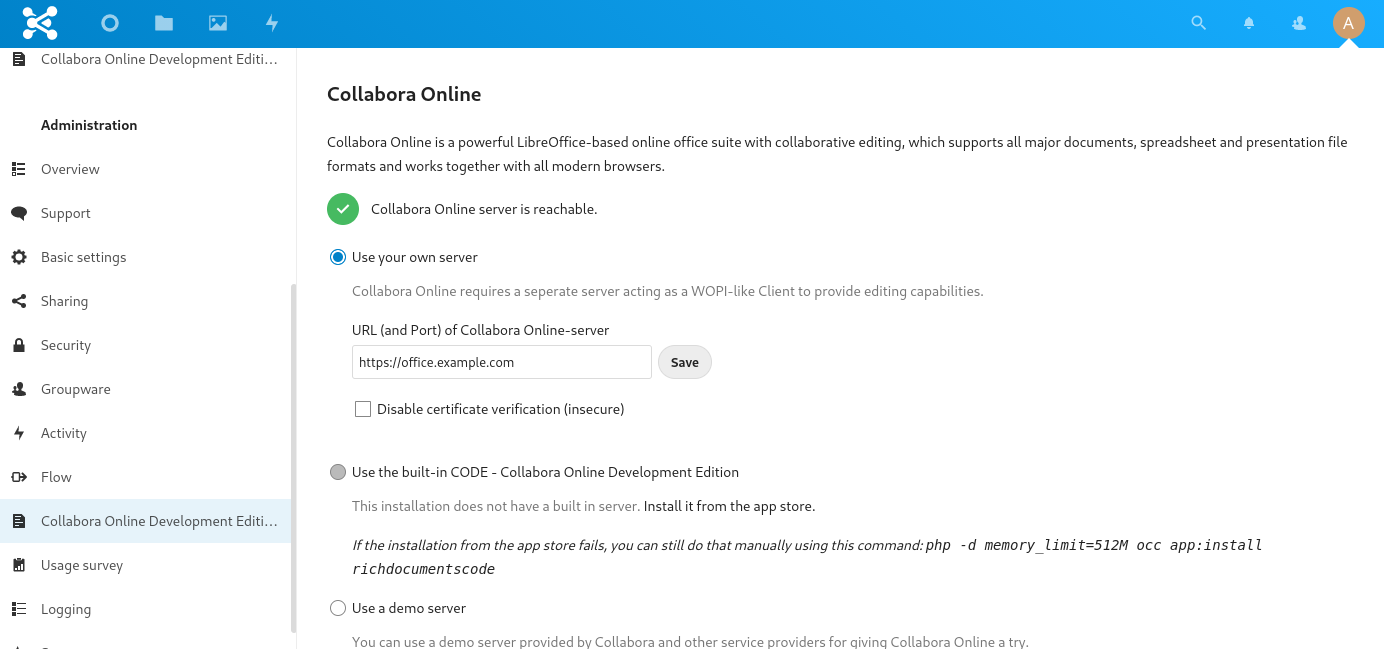
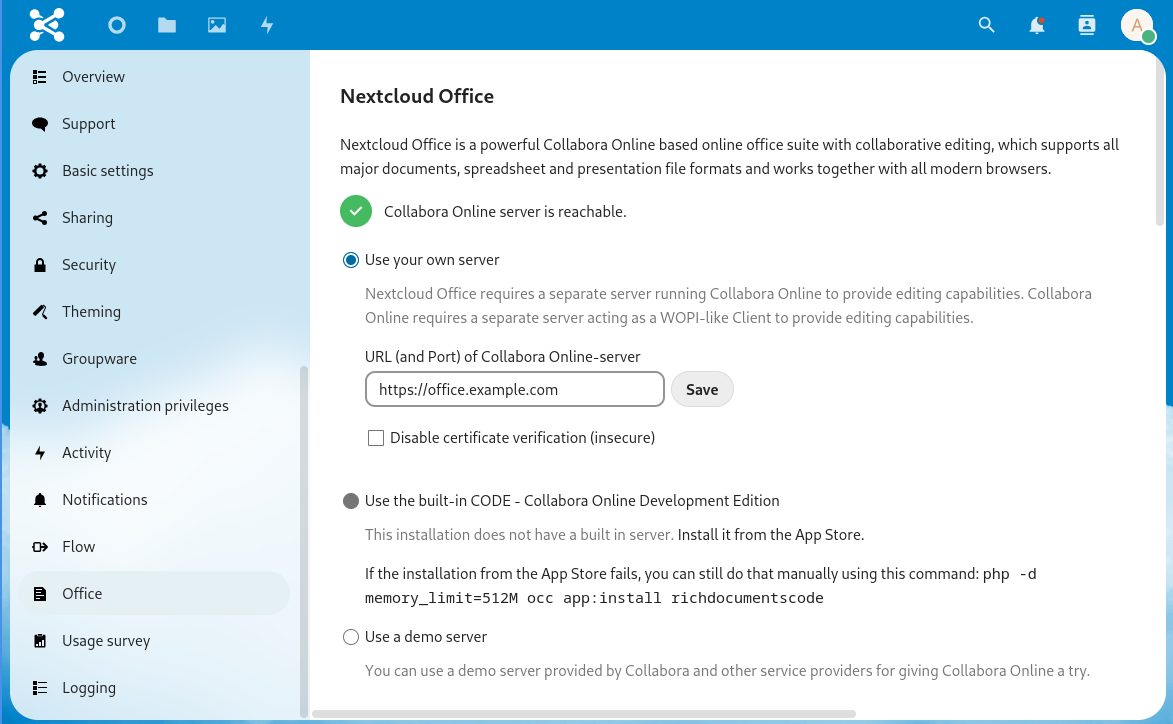
Updating Tutorial for Nextcloud Office

diff --git a/tutorials/install-and-configure-nextcloud-collabora-online/01.de.md b/tutorials/install-and-configure-nextcloud-collabora-online/01.de.md
@@ -3,9 +3,9 @@ SPDX-License-Identifier: MIT
 path: "/tutorials/install-and-configure-nextcloud-collabora-online/de"
 slug: "install-and-configure-nextcloud-collabora-online"
 date: "2021-05-06"
-title: "Installation und Konfiguration von Collabora Online für Nextcloud"
-short_description: "Dieses Tutorial beschreibt die Installation eines externen Collabora Online Server mit Let's Encrypt und die Einrichtung in einer Nextcloud."
-tags: ["Ubuntu", "Nextcloud", "Collabora"]
+title: "Installation und Konfiguration von Nextcloud Office"
+short_description: "Dieses Tutorial beschreibt die Installation von Nextcloud Office mit einem externen Collabora Online Server und Let's Encrypt."
+tags: ["Ubuntu", "Nextcloud", "Collabora", "Office"]
 author: "Alexander Pücker"
 author_link: "https://github.com/Anthrazz"
 author_img: "https://avatars.githubusercontent.com/u/25553648"
@@ -18,7 +18,7 @@ cta: "storageshare"
 
 ## Einleitung
 
-Collabora kann genutzt werden um Office Dokumente direkt in der Nextcloud Weboberfläche anzuzeigen und zu bearbeiten.
+Nextcloud Office baut auf Collabora Online auf und kann genutzt werden um Office Dokumente direkt in der Nextcloud Weboberfläche anzuzeigen und zu bearbeiten.
 
 Dieses Tutorial beschreibt die Einrichtung eines externen Collabora Online Server und die Einrichtung in einer Nextcloud. Der Collabora Online Server wird mit SSL Zertifikate von Let's Encrypt konfiguriert um eine vertrauenswürdige SSL Verbindung bereitzustellen.
 
@@ -26,7 +26,7 @@ Dieses Tutorial beschreibt die Einrichtung eines externen Collabora Online Serve
 
 Du benötigst die folgenden Dinge
 
-* ein Server mit Ubuntu 20.04 (andere Ubuntu Versionen sollten aber auch funktionieren)
+* ein Server mit Ubuntu 22.04 (andere Ubuntu Versionen sollten aber auch funktionieren)
 * eigene Domain wie z.b. `example.com`
 * eigene Subdomain die auf deinen geplanten Collabora Server zeigt (z.b. auf `office.example.com`)
 * eine Nextcloud (in diesem Tutorial `nextcloud.example.com`)
@@ -92,11 +92,10 @@ Nun können die SSL Zertifikate erstellt werden. Passe dabei die Domain auf die 
 ```shell
 certbot certonly --nginx -d office.example.com
 [...]
-IMPORTANT NOTES:
- - Congratulations! Your certificate and chain have been saved at:
-   /etc/letsencrypt/live/office.example.com/fullchain.pem
-   Your key file has been saved at:
-   /etc/letsencrypt/live/office.example.com/privkey.pem
+Successfully received certificate.
+Certificate is saved at: /etc/letsencrypt/live/office.example.com/fullchain.pem
+Key is saved at:         /etc/letsencrypt/live/office.example.com/privkey.pem
+[...]
 ```
 
 Hinweiß: Merke dir kurz die Pfade der SSL Zertifikate da diese im nächsten Schritt für die Nginx Konfiguration benötigt werden.
@@ -114,26 +113,26 @@ server {
     ssl_certificate_key /etc/letsencrypt/live/office.example.com/privkey.pem;
 
     # static files
-    location ^~ /loleaflet {
-        proxy_pass https://localhost:9980;
+    location ^~ /browser {
+        proxy_pass https://127.0.0.1:9980;
         proxy_set_header Host $http_host;
     }
 
     # WOPI discovery URL
     location ^~ /hosting/discovery {
-        proxy_pass https://localhost:9980;
+        proxy_pass https://127.0.0.1:9980;
         proxy_set_header Host $http_host;
     }
 
     # Capabilities
     location ^~ /hosting/capabilities {
-        proxy_pass https://localhost:9980;
+        proxy_pass https://127.0.0.1:9980;
         proxy_set_header Host $http_host;
     }
 
     # main websocket
-    location ~ ^/lool/(.*)/ws$ {
-        proxy_pass https://localhost:9980;
+    location ~ ^/cool/(.*)/ws$ {
+        proxy_pass https://127.0.0.1:9980;
         proxy_set_header Upgrade $http_upgrade;
         proxy_set_header Connection "Upgrade";
         proxy_set_header Host $http_host;
@@ -141,14 +140,14 @@ server {
     }
 
     # download, presentation and image upload
-    location ~ ^/lool {
-        proxy_pass https://localhost:9980;
+    location ~ ^/(c|l)ool {
+        proxy_pass https://127.0.0.1:9980;
         proxy_set_header Host $http_host;
     }
 
     # Admin Console websocket
-    location ^~ /lool/adminws {
-        proxy_pass https://localhost:9980;
+    location ^~ /cool/adminws {
+        proxy_pass https://127.0.0.1:9980;
         proxy_set_header Upgrade $http_upgrade;
         proxy_set_header Connection "Upgrade";
         proxy_set_header Host $http_host;
@@ -163,19 +162,21 @@ Nun muss der Nginx neugestartet werden um die neue Konfiguration zu nutzen:
 systemctl restart nginx
 ```
 
-## Schritt 8 - Aktiviere die Collabora Online App in Nextcloud
+## Schritt 8 - Aktiviere die Nextcloud Office App in Nextcloud
 
-Der Collabora Server selbst ist nun fertig eingerichtet und nutzbar. Nun muss nur noch der Collabora Server in der Nextcloud konfiguriert werden.
+Der Collabora Server selbst ist nun fertig eingerichtet und nutzbar. Nun muss nur noch dieser in der Nextcloud konfiguriert werden.
 
-In Nextcloud muss die App `Collabora Online` aktiviert werden. Gehe dafür im Web Interface deiner Nextcloud in den App Store (obere rechte Ecke -> `Apps`) und Suche nach `Collabora Online`. Es muss nur die App `Collabora Online` aktiviert werden und keine andere.
+In Nextcloud muss die App `Nextcloud Office` aktiviert werden. Gehe dafür im Web Interface deiner Nextcloud in den App Store (obere rechte Ecke -> `Apps`) und Suche nach `Nextcloud Office`. Es muss nur die App `Nextcloud Office` aktiviert werden und keine andere.
 
-## Schritt 9 - Collabora Online App konfigurieren
+## Schritt 9 - Nextcloud Office App konfigurieren
 
-Nach der Installation muss der Collabora App noch die Adresse des Collabora Servers mitgeteilt werden. Für dies gehen in die Einstellungen deiner Nextcloud (obere rechte Ecke  -> `Einstellungen`) und wähle im linken Menü `Collabora Online` aus. Wähle hier `Verwende Deinen eigenen Server` aus und füge die Adresse deines Collabora Servers ein (z.b. `https://office.example.com`):
+Nach der Installation muss der Nextcloud Office App noch die Adresse des Collabora Servers mitgeteilt werden. Für dies gehe in die Einstellungen deiner Nextcloud (obere rechte Ecke  -> `Administrationseinstellungen`) und wähle im linken Menü unterhalb des Punktes `Verwaltung` den Menüpunkt `Office` aus. Wähle hier `Verwenden Sie Ihren eigenen Server` aus und füge die Adresse deines Collabora Servers ein (z.b. `https://office.example.com`):
 
 ![Nextcloud Collabora Settings](images/nextcloud-collabora-settings.png)
 
-Wenn alles funktioniert wird eine erfolgreiche Verbindung angezeigt. Drücke auf `Save` um die Einstellungen dauerhaft zu speichern.
+Drücke auf `Save` um die Einstellungen zu speichern. Wenn die Verbindung funktioniert wird eine Bestätigung angezeigt.
+
+Zusätzlich sollte die `Allow list for WOPI requests` konfiguriert werden damit nur der Collabora Server Dokumente abrufen kann. Diese kann weiter unten unterhalb der Erweiterten Einstellungen gefunden werden. Hier muss die IPv4 und IPv6 Adresse des Collabora Servers eingetragen werden (z.b. `1.2.3.4,2a01:4f8:aaaa:bbbb:cccc::1`)
 
 ## Schritt 10 - SSL Zertifikate erneuern
 

diff --git a/tutorials/install-and-configure-nextcloud-collabora-online/01.en.md b/tutorials/install-and-configure-nextcloud-collabora-online/01.en.md
@@ -3,9 +3,9 @@ SPDX-License-Identifier: MIT
 path: "/tutorials/install-and-configure-nextcloud-collabora-online"
 slug: "install-and-configure-nextcloud-collabora-online"
 date: "2021-05-06"
-title: "Install and Configure Collabora Online for Nextcloud"
-short_description: "This tutorial describes how to install a external Collabora Online Server with Let's Encrypt and how to configure a already working Nextcloud instance."
-tags: ["Ubuntu", "Nextcloud", "Collabora"]
+title: "Install and Configure Nextcloud Office"
+short_description: "This tutorial describes how to configure Nextcloud Office with an external Collabora Online Server and Let's Encrypt."
+tags: ["Ubuntu", "Nextcloud", "Collabora", "Office"]
 author: "Alexander Pücker"
 author_link: "https://github.com/Anthrazz"
 author_img: "https://avatars.githubusercontent.com/u/25553648"
@@ -18,7 +18,7 @@ cta: "storageshare"
 
 ## Introduction
 
-Collabora can be used to view and edit office documents direct inside the Nextcloud webinterface.
+Nextcloud Office is based on Collabora and can be used to view and edit office documents direct inside the Nextcloud webinterface.
 
 This tutorial will describe how to install a own Collabora Online server that can be used with a Nextcloud instance. The Collabora Online server will be configured with Let's Encrypt to provide access via a valid SSL connection.
 
@@ -26,7 +26,7 @@ This tutorial will describe how to install a own Collabora Online server that ca
 
 You need the following things:
 
-* a server with Ubuntu 20.04 (but other Ubuntu's should work too)
+* a server with Ubuntu 22.04 (but other Ubuntu's should work too)
 * a own domain like `example.com`
 * a subdomain of your domain points to your planned Collabora server (e.g. using `office.example.com`)
 * a Nextcloud (for this tutorial they has the domain `nextcloud.example.com`)
@@ -92,11 +92,10 @@ Now request the SSL certificates via Certbot and your servers domain:
 ```shell
 certbot certonly --nginx -d office.example.com
 [...]
-IMPORTANT NOTES:
- - Congratulations! Your certificate and chain have been saved at:
-   /etc/letsencrypt/live/office.example.com/fullchain.pem
-   Your key file has been saved at:
-   /etc/letsencrypt/live/office.example.com/privkey.pem
+Successfully received certificate.
+Certificate is saved at: /etc/letsencrypt/live/office.example.com/fullchain.pem
+Key is saved at:         /etc/letsencrypt/live/office.example.com/privkey.pem
+[...]
 ```
 
 Note: Store the paths to the SSL cert and key file as you need they in the next step.
@@ -115,25 +114,25 @@ server {
 
     # static files
     location ^~ /browser {
-        proxy_pass https://localhost:9980;
+        proxy_pass https://127.0.0.1:9980;
         proxy_set_header Host $http_host;
     }
 
     # WOPI discovery URL
     location ^~ /hosting/discovery {
-        proxy_pass https://localhost:9980;
+        proxy_pass https://127.0.0.1:9980;
         proxy_set_header Host $http_host;
     }
 
     # Capabilities
     location ^~ /hosting/capabilities {
-        proxy_pass https://localhost:9980;
+        proxy_pass https://127.0.0.1:9980;
         proxy_set_header Host $http_host;
     }
 
     # main websocket
     location ~ ^/cool/(.*)/ws$ {
-        proxy_pass https://localhost:9980;
+        proxy_pass https://127.0.0.1:9980;
         proxy_set_header Upgrade $http_upgrade;
         proxy_set_header Connection "Upgrade";
         proxy_set_header Host $http_host;
@@ -142,13 +141,13 @@ server {
 
     # download, presentation and image upload
     location ~ ^/(c|l)ool {
-        proxy_pass https://localhost:9980;
+        proxy_pass https://127.0.0.1:9980;
         proxy_set_header Host $http_host;
     }
 
     # Admin Console websocket
     location ^~ /cool/adminws {
-        proxy_pass https://localhost:9980;
+        proxy_pass https://127.0.0.1:9980;
         proxy_set_header Upgrade $http_upgrade;
         proxy_set_header Connection "Upgrade";
         proxy_set_header Host $http_host;
@@ -163,19 +162,21 @@ Now restart the Nginx to load the new configuration via the following command:
 systemctl restart nginx
 ```
 
-## Step 8 - Activate Collabora Online App in Nextcloud
+## Step 8 - Activate Nextcloud Office in Nextcloud
 
-The Collabora server itself is now fully configured and usable. You now have to configure Collabora within your Nextcloud.
+The Collabora server itself is now fully configured and usable. You now have to configure Nextcloud Office within your Nextcloud.
 
-In your Nextcloud, activate the app `Collabora Online`. For that, go to the web interface of your Nextcloud and open the app store (top right corner -> `Apps`). Search for `Collabora Online` and activate only the app `Collabora Online`.
+In your Nextcloud, activate the app `Nextcloud Office`. For that, go to the web interface of your Nextcloud and open the app store (top right corner -> `Apps`). Search for `Nextcloud Office` and activate only the app `Nextcloud Office`.
 
-## Step 9 - Configure Collabora Online App
+## Step 9 - Configure Nextcloud Office App
 
-After the installation of the app you have to configure it and tell it where your Collabora Online Server is. For that, go to the settings of your Nextcloud (top right corner -> `Settings`) and select `Collabora Online` on the left menu. There select `Use your own server` (German: `Verwende Deinen eigenen Server`) and add the address of your server (e.g. `https://office.example.com`):
+After the installation of the app you have to configure it and tell it where your Collabora Online Server is. For that, go to the settings of your Nextcloud (top right corner -> `Administration Settings`) and select `Office` on the left menu (under `Administration`). There select `Use your own server` and add the address of your server (e.g. `https://office.example.com`):
 
 ![Nextcloud Collabora Settings](images/nextcloud-collabora-settings.png)
 
-If everything works correct then the settings dialog should show a working connection to your Collabora server. Click on the `Save` button in order to store the configuration.
+Click on the `Save` button in order to store the configuration. If everything works correct then the settings dialog should show a working connection to your Collabora server.
+
+Additional you should configure the `Allow list for WOPI requests` to only allow the Collabora Server to fetch documents. This setting is located under the Advanced settings and the IPv4 and IPv6 address of the Collabora server must be added (e.g. `1.2.3.4,2a01:4f8:aaaa:bbbb:cccc::1`)
 
 ## Step 10 - Renew SSL Cert
 
